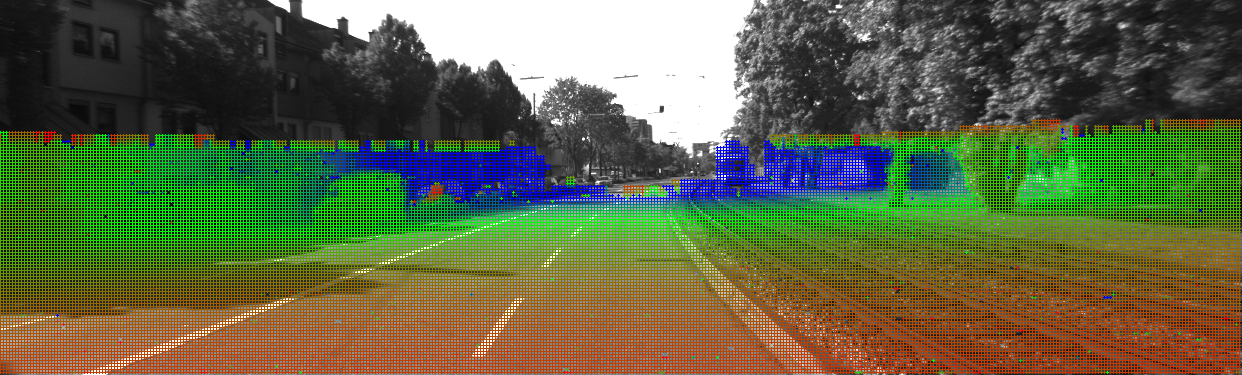
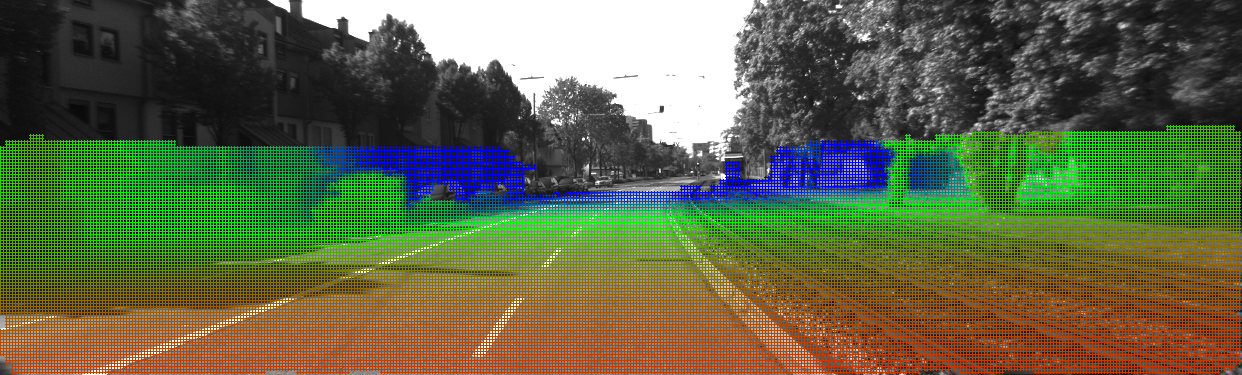
docs(visual_odometry): Add instructions and test file for Ceres

diff --git a/src/visual_odometry/src/test_ceres.cpp b/src/visual_odometry/src/test_ceres.cpp
@@ -1,0 +1,48 @@
+#include "ceres/ceres.h"
+#include "ros/ros.h"
+
+using ceres::AutoDiffCostFunction;
+using ceres::CostFunction;
+using ceres::Problem;
+using ceres::Solve;
+using ceres::Solver;
+
+// A templated cost functor that implements the residual r = 10 -
+// x. The method operator() is templated so that we can then use an
+// automatic differentiation wrapper around it to generate its
+// derivatives.
+struct CostFunctor {
+  template <typename T>
+  bool operator()(const T* const x, T* residual) const {
+    residual[0] = 10.0 - x[0];
+    return true;
+  }
+};
+
+
+int main(int argc, char** argv) {
+    ros::init(argc, argv, "test_ceres");
+
+    double x = 0.5;
+    const double initial_x = x;
+
+    // Build the problem.
+    Problem problem;
+
+    // Set up the only cost function (also known as residual). This uses
+    // auto-differentiation to obtain the derivative (jacobian).
+    CostFunction* cost_function =
+        new AutoDiffCostFunction<CostFunctor, 1, 1>(new CostFunctor);
+    problem.AddResidualBlock(cost_function, nullptr, &x);
+
+    // Run the solver!
+    Solver::Options options;
+    options.minimizer_progress_to_stdout = true;
+    Solver::Summary summary;
+    Solve(options, &problem, &summary);
+
+    std::cout << summary.BriefReport() << "\n";
+    std::cout << "x : " << initial_x << " -> " << x << "\n";
+
+    return 0;
+}

diff --git a/src/visual_odometry/src/test_kitti_pointcloud.cpp b/src/visual_odometry/src/test_kitti_pointcloud.cpp
@@ -348,7 +348,7 @@ float queryDepth(const float x, const float y, const Eigen::MatrixXf& bucket_x, 
     }
 
     // edge case, no enough neighbors
-    if (neighbors.size() < 3)
+    if (neighbors.size() < 10)
         return -1.0f; // a fixed unrealistic value representing query failure
 
     // sort the vector; better ways can be quick select and heapify
@@ -358,7 +358,7 @@ float queryDepth(const float x, const float y, const Eigen::MatrixXf& bucket_x, 
         return distance_2d_n1 < distance_2d_n2;
     });
     
-    float z = (neighbors[0](2) + neighbors[1](2) + neighbors[2](2))/3.0f; 
+    float z = (neighbors[0](2) + neighbors[1](2) + neighbors[2](2))/3.0f;  // TODO: weighted distance
     assert(z > 0);
     return z;
     // // naive averaging is already providing good estimation => maybe just check the current bucket_depth is also a fast and good estimation

diff --git a/src/visual_odometry/README.md b/src/visual_odometry/README.md
@@ -2,6 +2,7 @@
 
 OpenCV 4.5.1
 Eigen3 3.3
+Ceres 2.0
 
 # Troubleshooting
 
@@ -12,6 +13,38 @@ Solution: Modify `_include_dirs` in cv_bridgeConfig.cmake (at line 96)
 The default `_include_dirs` is set by `set(_include_dirs "include;/usr/include/opencv4")`, while my opencv is installed under `/usr/local/include/opencv4`.
 
 Reference: https://github.com/cipherdev/src/issues/13
+
+## 2. Installing Ceres
+
+I installed the [latest stable release](http://ceres-solver.org/ceres-solver-2.0.0.tar.gz) as mentioned in http://ceres-solver.org/installation.html. At step "make test", my computer got stuck at step 31 "dynamic_sparsity_test". This happened to both latest stable release and latest github repository. This bug was ignored, and I went to the next command "make install".
+
+## 3. Using catkin_make with Ceres
+
+- Bug 1: fatal error: Eigen/Core: No such file or directory
+    - Reason: the installation folder of Eigen is under .../eigen3/Eigen/...
+    - Fix: `sudo ln -s /usr/local/include/eigen3/Eigen /usr/include/Eigen`
+    - Reference: https://github.com/opencv/opencv/issues/14868
+- Bug 2: integer_sequence’ is not a member of ‘std’
+    - Reason: Ceres 2.0 relies on c++ 14
+    - Fix: change `add_compile_options(-std=c++11)` to `add_compile_options(-std=c++14)`
+- Bug 3: test_ceres.cpp:(.text+0xe4): undefined reference to `ceres::Problem::Problem()'
+    - Reason: Ceres library was not linked
+    - Fix: Add `${CERES_LIBRARIES}` to target_link_libraries. Eg. `target_link_libraries(YOUR_TARGET_EXEC ${catkin_LIBRARIES} ${CERES_LIBRARIES})`
+
+Hello world file then returns me the following results
+>rosrun visual_odometry test_ceres   
+>
+>iter      cost      cost_change  |gradient|   |step|    tr_ratio  tr_radius  ls_iter  iter_time  total_time
+>
+>   0  4.512500e+01    0.00e+00    9.50e+00   0.00e+00   0.00e+00  1.00e+04        0    1.72e-05    1.09e-04
+>
+>   1  4.511598e-07    4.51e+01    9.50e-04   9.50e+00   1.00e+00  3.00e+04        1    4.20e-05    1.95e-04
+>
+>   2  5.012552e-16    4.51e-07    3.17e-08   9.50e-04   1.00e+00  9.00e+04        1    7.87e-06    2.11e-04
+>
+>Ceres Solver Report: Iterations: 3, Initial cost: 4.512500e+01, Final cost: 5.012552e-16, Termination: CONVERGENCE
+>
+>x : 0.5 -> 10
 
 # Kitti
 
